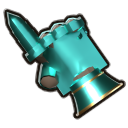
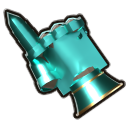
Cursor: the thumb aimed forward along the index
The thumb was tucked under the palm, which pushed on the side of the back
plate. Following the owner's second photo, it now lies straight alongside
the index and points the same way: swung in 36 degrees, lowered 18 below
the back of the hand, its joints barely bent. It is 1.3 times its bone's
length, as long as a real thumb, and has a knuckle plate of its own that
closes its lame's open root. Only the cursor changes; the worn gauntlets
fit the hand's own surface.

Changed region(s): [[0.1875, 0.4375, 0.5312, 0.75]]

diff --git a/tools/blender/mftr_blender/gauntlet.py b/tools/blender/mftr_blender/gauntlet.py
@@ -98,9 +98,9 @@ class Hand:
             joints = [root.lerp(tip, s) for s in PHALANGES]
             k_r = 0.86 if name == "little" else 1.0
             self.fingers.append(Finger(name, joints, [r * k_r, r * k_r * 0.9, r * k_r * 0.8], _curl_axis(d)))
-        # The thumb along its bone, a little past its tail (the bone stops short of the tip).
+        # The thumb along its bone, past its tail (the bone stops short of the tip).
         h, tt = self.to_local(thumb.head_local), self.to_local(thumb.tail_local)
-        d = (tt - h) * 1.1
+        d = (tt - h) * THUMB_REACH
         self.thumb = Finger("thumb", [h, h + d * 0.55, h + d], [r * 1.2, r * 1.05], _curl_axis(d))
         # The knuckles' line.
         self.knuckles = [f.joints[0] for f in self.fingers]
@@ -120,6 +120,8 @@ def _curl_axis(d):
 PHALANGES = (0.0, 0.47, 0.76, 1.0)
 # Little finger to index: each one's length (a share of the fingers bone's reach) and splay
 # (degrees, + toward the thumb).
+# The thumb's length, times its bone's (the bone stops at the second joint's middle).
+THUMB_REACH = 1.3
 SPREAD = (("little", 0.78, -5.0), ("ring", 0.95, -1.5), ("middle", 1.0, 1.0), ("index", 0.92, 3.5))
 
 
@@ -387,14 +389,14 @@ def build(hand, detail="cursor"):
                             n_arc=lod["arc"], ridge=0.0011, flare=0.0 if last else 0.0012, tip=r * 1.6 if last else 0.0,
                             rings=lod["rings"], solid=lod["solid"])
             pieces.append(Piece(sv, sf, "steel", (f.name, s)))
-        if not thumb:
-            # A knuckle plate over the finger's root, on the hand.
-            k = f.joints[0]
-            a = (f.joints[1] - f.joints[0]).normalized()
-            r = f.radius[0] * 1.6 + 0.004
-            kv, kf = _shell(k - a * 0.011, k + a * 0.012, up, r, r * 0.95, 190, 0.002, n_arc=lod["arc"], ridge=0.002,
-                            flare=0.001, rings=lod["rings"], solid=lod["solid"])
-            pieces.append(Piece(kv, kf, "steel", "hand"))
+        # A knuckle plate over the finger's root, on the hand; the thumb's rides the thumb and
+        # closes its lame's open root.
+        k = f.joints[0]
+        a = (f.joints[1] - f.joints[0]).normalized()
+        r = f.radius[0] * (1.25 if thumb else 1.6) + 0.004
+        kv, kf = _shell(k - a * 0.011, k + a * 0.012, fup, r, r * 0.95, 300 if thumb else 190, 0.002, n_arc=lod["arc"],
+                        ridge=0.002, flare=0.001, rings=lod["rings"], solid=lod["solid"])
+        pieces.append(Piece(kv, kf, "steel", (f.name, 0) if thumb else "hand"))
     return pieces
 
 
@@ -416,10 +418,10 @@ def tip(hand, bends, thumb=None):
 # toward the palm (degrees): the index straight, the others closed in a fist, so only their
 # knuckles show from the back; the thumb's two joints.
 POINTING = {"index": (2, 0, 0), "middle": (92, 100, 70), "ring": (95, 100, 70), "little": (98, 100, 70),
-            "thumb": (25, 35)}
+            "thumb": (6, 10)}
 # The thumb is tucked under the palm before it curls: swung down under it (about the hand's
 # length) and in toward the fingers (about the back of the hand's axis), degrees.
-THUMB = {"under": 50, "across": 30}
+THUMB = {"under": 18, "across": 36}
 
 
 def _turn(p, at, axis, deg):

diff --git a/docs/design/05-art-and-assets.md b/docs/design/05-art-and-assets.md
@@ -183,7 +183,8 @@ The client's built-in kit (`client/scripts/vfx.gd`, `client/shaders/pixel_vfx.gd
     knuckle plates and a lame for each finger joint, with leather between. It is built on the
     slim masculine base's right hand and posed as the owner's own hand showed it: a right hand
     seen from its back, the index pointing up and to the left, the other fingers closed in a fist
-    (their knuckles along the top), the thumb tucked under the palm. The back of the hand is
+    (their knuckles along the top), the thumb straight alongside the index, aimed the same way
+    (as the owner's second photo showed: it keeps the back of the gauntlet clean). The back of the hand is
     found from the thumb, not assumed, so the hand is never mirrored.
   - **The render** (`mftr_blender.cursor_render`): polished steel under a bright sky and a key
     light from the upper left. Each state is reduced from 4× its size, then given a dark outline
